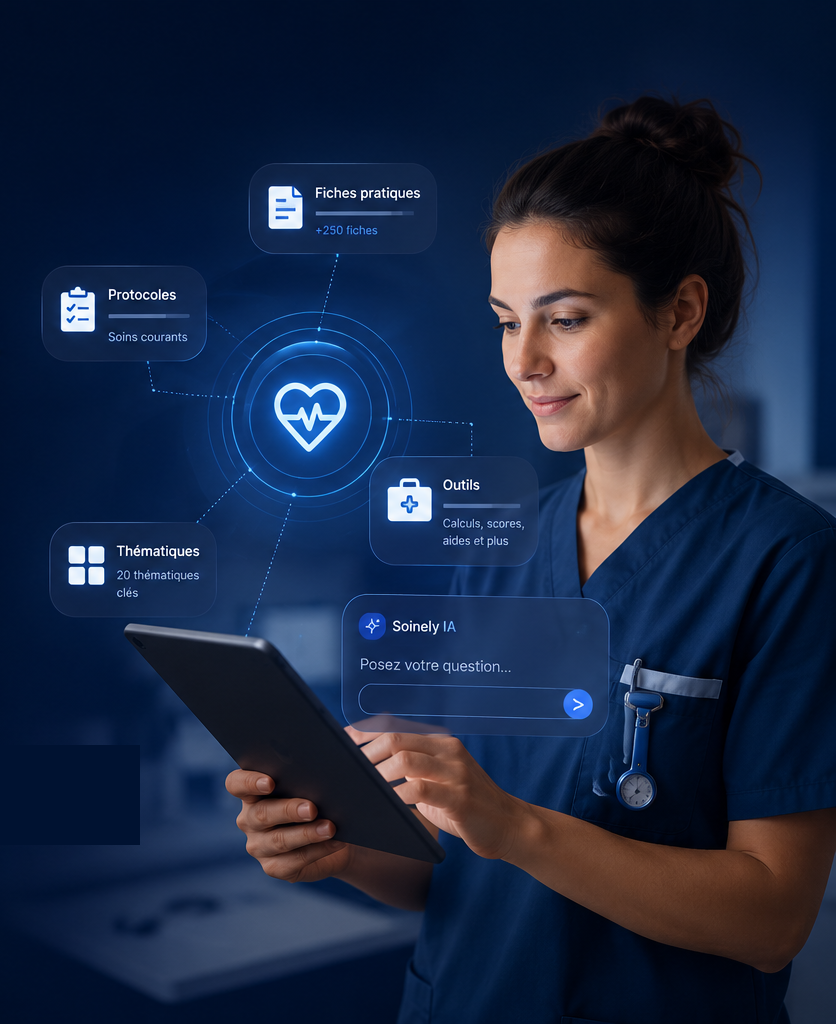
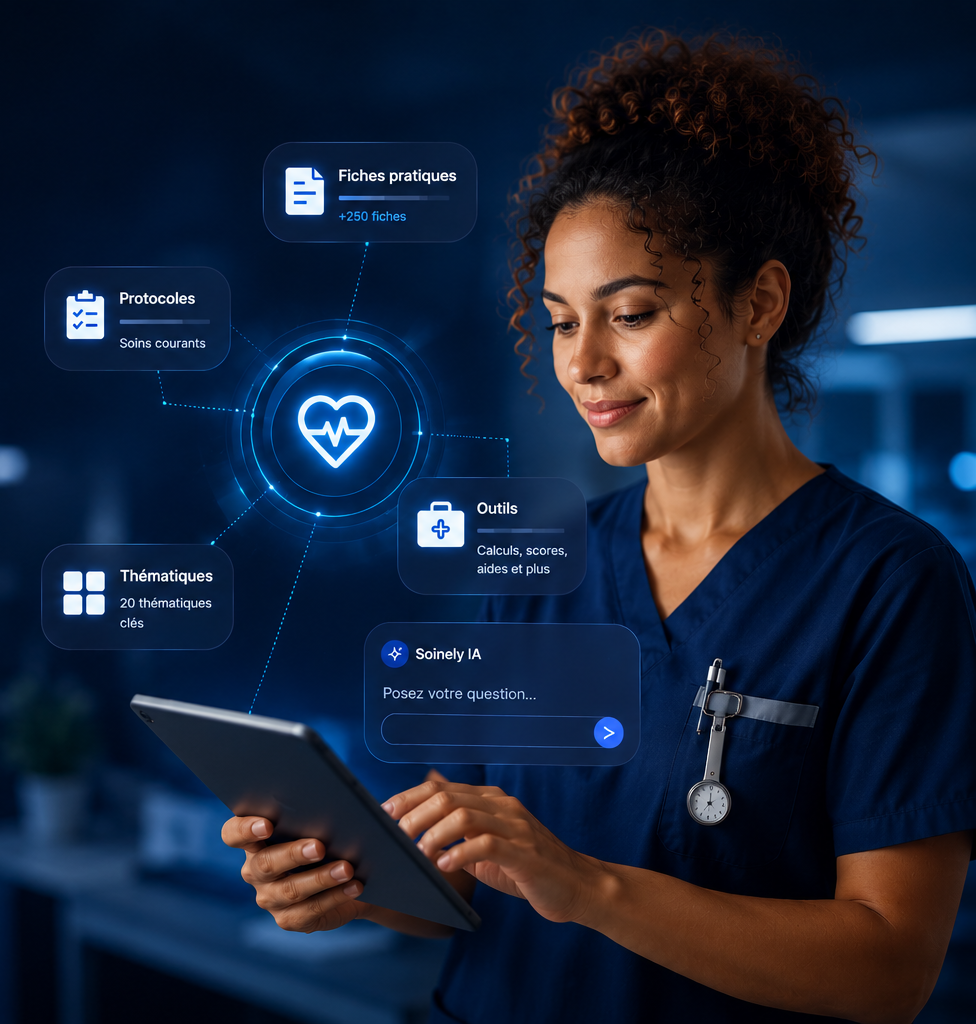
Actualites separees de SOINELY Daily, section Commencer, assistant IA plus clair
- Nouvelle page /actualites : fil complet des actualites sante (Google News),
  detachee de /daily qui redevient centree sur le rappel du jour
- /daily renvoie vers /actualites via une carte de lien
- Nouvelle section CommencerSection sur la page de garde (pas de tarification
  reelle dans l'app, donc CTA unique "Creer mon compte" plutot que des prix
  inventes)
- app/api/assistant/route.ts : prompt IA resserre (reponse directe + points
  cles + alerte, 6 lignes max) et reponse de secours basee sur le contenu
  structure des fiches plutot qu'une liste de titres
- Hero.tsx : remplacement de la photo par la variante doc/Image.png (recadree)

diff --git a/app/(site)/actualites/page.tsx b/app/(site)/actualites/page.tsx
@@ -1,0 +1,64 @@
+import Link from "next/link";
+import { getHealthNews } from "@/lib/news";
+import { Newspaper, ExternalLink, ArrowLeft } from "lucide-react";
+
+function timeAgo(pubDate: string) {
+  const diffMs = Date.now() - new Date(pubDate).getTime();
+  const hours = Math.floor(diffMs / (1000 * 60 * 60));
+  if (hours < 1) return "à l'instant";
+  if (hours < 24) return `il y a ${hours} h`;
+  return `il y a ${Math.floor(hours / 24)} j`;
+}
+
+export default async function ActualitesPage() {
+  const news = await getHealthNews(20);
+
+  return (
+    <div className="mx-auto max-w-2xl px-6 py-16">
+      <Link
+        href="/daily"
+        className="inline-flex items-center gap-1.5 text-sm text-muted-foreground hover:text-navy-900"
+      >
+        <ArrowLeft className="h-4 w-4" />
+        SOINELY Daily
+      </Link>
+
+      <div className="mt-4 text-center">
+        <p className="flex items-center justify-center gap-1.5 text-sm font-medium uppercase tracking-wide text-primary-600">
+          <Newspaper className="h-4 w-4" />
+          Actualités santé
+        </p>
+        <h1 className="mt-2 text-3xl font-semibold text-navy-900">Le fil de l'actualité médicale</h1>
+        <p className="mt-3 text-sm text-muted-foreground">
+          Flux en direct de Google Actualités — filtré sur les sujets santé, médical et infirmier.
+        </p>
+      </div>
+
+      <div className="mt-10 flex flex-col gap-2">
+        {news.length === 0 && (
+          <p className="text-center text-sm text-muted-foreground">
+            Aucune actualité disponible pour le moment. Réessayez dans un instant.
+          </p>
+        )}
+        {news.map((item, i) => (
+          <a
+            key={i}
+            href={item.link}
+            target="_blank"
+            rel="noopener noreferrer nofollow"
+            className="flex items-start justify-between gap-3 rounded-lg border border-border bg-card p-4 transition hover:border-primary-500"
+          >
+            <div className="min-w-0">
+              <p className="text-sm font-medium text-navy-900">{item.title}</p>
+              <p className="mt-1 text-xs text-muted-foreground">
+                {item.source}
+                {item.pubDate && <> · {timeAgo(item.pubDate)}</>}
+              </p>
+            </div>
+            <ExternalLink className="mt-0.5 h-3.5 w-3.5 shrink-0 text-muted-foreground" />
+          </a>
+        ))}
+      </div>
+    </div>
+  );
+}

diff --git a/app/(site)/daily/page.tsx b/app/(site)/daily/page.tsx
@@ -1,7 +1,6 @@
 import Link from "next/link";
 import { prisma } from "@/lib/prisma";
-import { getHealthNews } from "@/lib/news";
-import { BookOpen, Brain, ArrowRight, Newspaper, ExternalLink } from "lucide-react";
+import { BookOpen, Brain, ArrowRight, Newspaper } from "lucide-react";
 
 function dayOfYear(date: Date) {
   const start = new Date(date.getFullYear(), 0, 0);
@@ -9,22 +8,11 @@ function dayOfYear(date: Date) {
   return Math.floor(diff / (1000 * 60 * 60 * 24));
 }
 
-function timeAgo(pubDate: string) {
-  const diffMs = Date.now() - new Date(pubDate).getTime();
-  const hours = Math.floor(diffMs / (1000 * 60 * 60));
-  if (hours < 1) return "à l'instant";
-  if (hours < 24) return `il y a ${hours} h`;
-  return `il y a ${Math.floor(hours / 24)} j`;
-}
-
 export default async function DailyPage() {
-  const [tips, news] = await Promise.all([
-    prisma.dailyTip.findMany({
-      orderBy: { ordre: "asc" },
-      include: { fiche: { include: { hub: true } } },
-    }),
-    getHealthNews(6),
-  ]);
+  const tips = await prisma.dailyTip.findMany({
+    orderBy: { ordre: "asc" },
+    include: { fiche: { include: { hub: true } } },
+  });
 
   if (tips.length === 0) {
     return (
@@ -82,37 +70,21 @@ export default async function DailyPage() {
         </div>
       </div>
 
-      {news.length > 0 && (
-        <div className="mt-10">
-          <p className="mb-3 flex items-center gap-1.5 text-sm font-medium text-navy-900">
-            <Newspaper className="h-4 w-4 text-primary-600" />
-            Actualités santé
-          </p>
-          <p className="mb-3 text-xs text-muted-foreground">
-            Flux en direct de Google Actualités — filtré sur les sujets santé, médical et infirmier.
-          </p>
-          <div className="flex flex-col gap-2">
-            {news.map((item, i) => (
-              <a
-                key={i}
-                href={item.link}
-                target="_blank"
-                rel="noopener noreferrer nofollow"
-                className="flex items-start justify-between gap-3 rounded-lg border border-border bg-card p-4 transition hover:border-primary-500"
-              >
-                <div className="min-w-0">
-                  <p className="text-sm font-medium text-navy-900">{item.title}</p>
-                  <p className="mt-1 text-xs text-muted-foreground">
-                    {item.source}
-                    {item.pubDate && <> · {timeAgo(item.pubDate)}</>}
-                  </p>
-                </div>
-                <ExternalLink className="mt-0.5 h-3.5 w-3.5 shrink-0 text-muted-foreground" />
-              </a>
-            ))}
+      <Link
+        href="/actualites"
+        className="mt-10 flex items-center justify-between gap-3 rounded-lg border border-border bg-card p-4 transition hover:border-primary-500"
+      >
+        <div className="flex items-center gap-3">
+          <div className="flex h-10 w-10 items-center justify-center rounded-lg bg-primary-500/10 text-primary-600">
+            <Newspaper className="h-5 w-5" />
+          </div>
+          <div>
+            <p className="text-sm font-medium text-navy-900">Actualités santé</p>
+            <p className="text-xs text-muted-foreground">Le fil d'actualité médical et infirmier en direct</p>
           </div>
         </div>
-      )}
+        <ArrowRight className="h-4 w-4 shrink-0 text-muted-foreground" />
+      </Link>
     </div>
   );
 }

diff --git a/components/landing/CommencerSection.tsx b/components/landing/CommencerSection.tsx
@@ -1,0 +1,33 @@
+import Link from "next/link";
+import { ArrowRight, ShieldCheck } from "lucide-react";
+
+export default function CommencerSection() {
+  return (
+    <section id="commencer" className="relative overflow-hidden bg-navy-950 py-20">
+      <div className="pointer-events-none absolute inset-0 overflow-hidden">
+        <div className="absolute left-1/2 top-0 h-72 w-72 -translate-x-1/2 rounded-full bg-primary-500/25 blur-3xl" />
+      </div>
+
+      <div className="relative mx-auto flex max-w-2xl flex-col items-center px-6 text-center">
+        <h2 className="text-3xl font-semibold text-white sm:text-4xl">Commencez avec SOINELY</h2>
+        <p className="mt-4 text-lg text-navy-200">
+          Créez votre compte et accédez immédiatement aux fiches pratiques, protocoles et outils
+          pensés pour votre exercice quotidien d'infirmier libéral.
+        </p>
+
+        <Link
+          href="/inscription"
+          className="mt-8 flex items-center gap-2 rounded-full bg-primary-500 px-8 py-4 text-base font-medium text-white shadow-lg shadow-primary-500/30 transition hover:bg-primary-600"
+        >
+          Créer mon compte
+          <ArrowRight className="h-5 w-5" />
+        </Link>
+
+        <p className="mt-4 flex items-center gap-1.5 text-xs text-navy-300">
+          <ShieldCheck className="h-3.5 w-3.5" />
+          Inscription immédiate, aucune carte requise
+        </p>
+      </div>
+    </section>
+  );
+}

diff --git a/app/api/assistant/route.ts b/app/api/assistant/route.ts
@@ -74,9 +74,15 @@ export async function POST(req: NextRequest) {
 
   const systemPrompt =
     "Tu es l'assistant SOINELY, une bibliothèque de ressources pour infirmiers et infirmières libéraux (IDEL). " +
-    "Réponds en français, de façon claire et concise, en t'appuyant en priorité sur les fiches SOINELY fournies ci-dessous. " +
-    "Si les fiches fournies ne couvrent pas la question, tu peux répondre avec tes connaissances générales, mais précise alors clairement que ce n'est pas issu du contenu SOINELY. " +
-    "Pour toute question clinique précise (dosages, seuils, décisions médicales), rappelle que ta réponse est informative et qu'elle doit être validée par un professionnel de santé ou le médecin traitant avant application.";
+    "Tu réponds à des professionnels pressés, en tournée, souvent sur mobile : va droit au but. " +
+    "Structure TOUJOURS ta réponse ainsi, sans titres ni Markdown : " +
+    "1) une phrase de réponse directe à la question posée ; " +
+    "2) si utile, une liste de points clés introduits par un tiret « - », un point par ligne, courts et actionnables ; " +
+    "3) si pertinent, une dernière ligne commençant par « Alerte : » ou « À savoir : » pour un point de vigilance. " +
+    "Appuie-toi en priorité sur les fiches SOINELY fournies ci-dessous, sans les recopier telles quelles. " +
+    "Si elles ne couvrent pas la question, réponds avec tes connaissances générales en le précisant clairement. " +
+    "Reste bref (6 lignes maximum) : une réponse courte et claire vaut mieux qu'une réponse exhaustive. " +
+    "Pour toute question clinique précise (dosages, seuils, décisions médicales), rappelle en une courte phrase finale que la réponse est informative et doit être validée par un professionnel de santé ou le médecin traitant.";
 
   const userPrompt = `Fiches SOINELY pertinentes :\n\n${context}\n\nQuestion de l'utilisateur : ${q}`;
 
@@ -94,6 +100,7 @@ export async function POST(req: NextRequest) {
           { role: "user", content: userPrompt },
         ],
         temperature: 0.3,
+        max_tokens: 500,
       }),
     });
 
@@ -116,7 +123,9 @@ export async function POST(req: NextRequest) {
 
 function fallbackAnswer(
   q: string,
-  matches: { fiche: { titre: string; resume: string; slug: string; hub: { nom: string; slug: string } } }[]
+  matches: {
+    fiche: { titre: string; resume: string; contenu: string; slug: string; hub: { nom: string; slug: string } };
+  }[]
 ) {
   const sources = matches.map(({ fiche }) => ({
     titre: fiche.titre,
@@ -131,9 +140,16 @@ function fallbackAnswer(
     };
   }
 
-  const answer =
-    `Voici ce que j'ai retrouvé dans SOINELY à propos de « ${q} » :\n\n` +
-    matches.map(({ fiche }) => `- ${fiche.titre} — ${fiche.resume}`).join("\n");
+  // Sans réponse générée par le modèle, on affiche directement le contenu structuré
+  // (Objectif / Points clés / Quand alerter) de la fiche la plus pertinente : c'est plus
+  // clair et plus directement actionnable qu'une simple liste de titres et de résumés.
+  const top = matches[0].fiche;
+  const rest = matches.slice(1);
+
+  let answer = `Sur « ${top.titre.toLowerCase()} » :\n\n${top.contenu}`;
+  if (rest.length > 0) {
+    answer += `\n\nAutres fiches liées :\n` + rest.map(({ fiche }) => `- ${fiche.titre}`).join("\n");
+  }
 
   return { answer, sources };
 }

diff --git a/app/page.tsx b/app/page.tsx
@@ -10,6 +10,7 @@ import CabinetSection from "@/components/landing/CabinetSection";
 import AISection from "@/components/landing/AISection";
 import DailySection from "@/components/landing/DailySection";
 import StatsSection from "@/components/landing/StatsSection";
+import CommencerSection from "@/components/landing/CommencerSection";
 import Footer from "@/components/landing/Footer";
 
 export default async function Home() {
@@ -29,6 +30,7 @@ export default async function Home() {
       <AISection />
       <DailySection />
       <StatsSection />
+      <CommencerSection />
       <Footer />
     </div>
   );

diff --git a/components/landing/Hero.tsx b/components/landing/Hero.tsx
@@ -51,7 +51,7 @@ export default function Hero() {
             <Image
               src="/images/hero-idel.png"
               alt="Infirmière libérale consultant SOINELY sur tablette"
-              width={836}
+              width={976}
               height={1024}
               priority
               className="h-auto w-full"